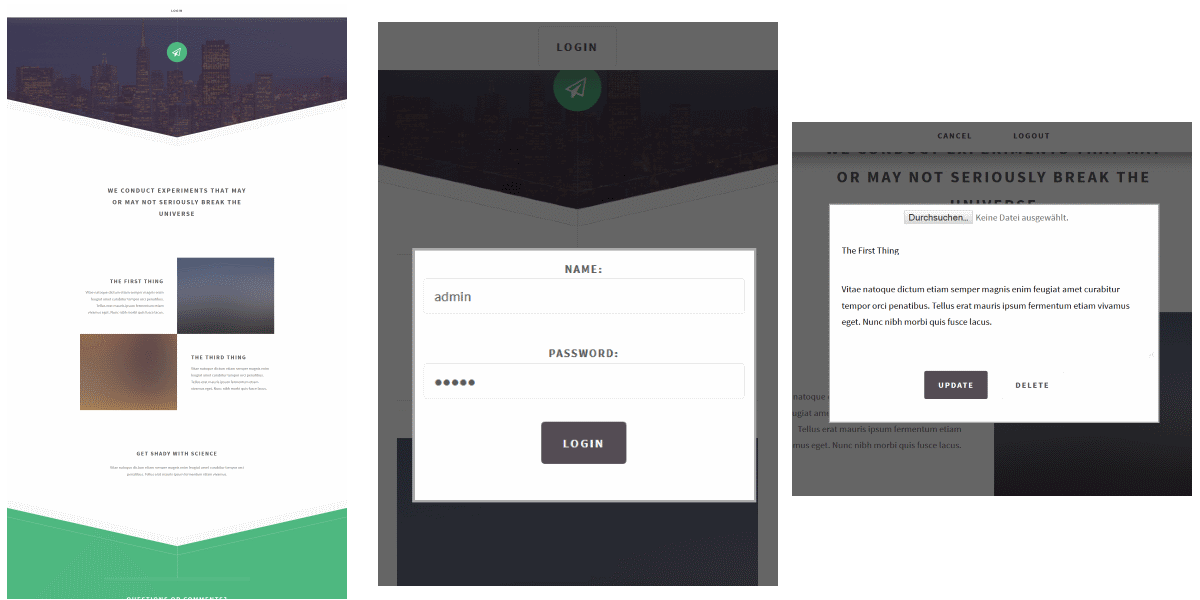
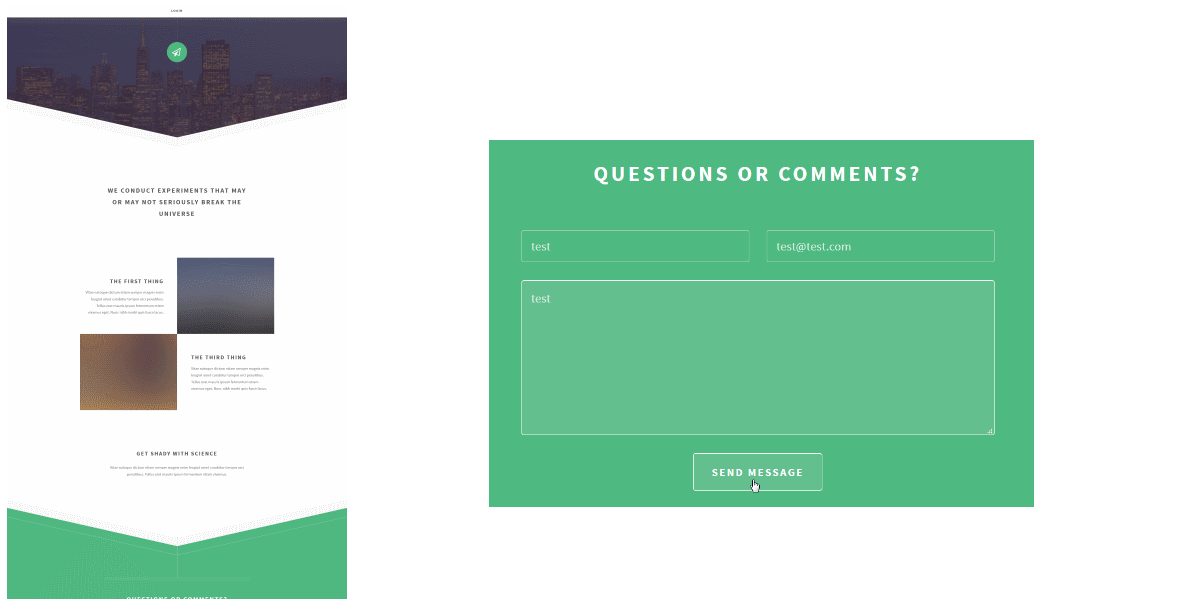
Improved contact controller sample

diff --git a/src/main/java/to/adapt/neba/impl/contact/ContactController.java b/src/main/java/to/adapt/neba/impl/contact/ContactController.java
@@ -30,10 +30,12 @@ public class ContactController {
 
     @RequestMapping(method = POST)
     public String add(@Valid Contact contact, BindingResult result) {
-        if (!result.hasErrors()) {
-            jobManager.addJob("neba-sample/contact/request", contact.toMap());
+        if (result.hasErrors()) {
+            return "neba-sample/components/contact/form";
         }
-        return formView();
+
+        jobManager.addJob("neba-sample/contact/request", contact.toMap());
+        return "neba-sample/components/contact/success";
     }
 
     public @ModelAttribute Contact contact() {

diff --git a/README.md b/README.md
@@ -1,8 +1,7 @@
 # NEBA Directive: a sample application for the NEBA framework for Apache Sling
 This project demonstrates core concepts and features of the NEBA framework for Sling. 
-It provides a demonstrative mini-CMS application for the beautiful responsive _directive_ template set by [http://html5up.net](http://html5up.net). 
-The application was created as part of a presentation of the 2015 .adaptTo conference in Berlin, Germany and
-is continuously updated to serve as a sample project for NEBA.
+It provides a demonstrative mini WEB application for the beautiful responsive _directive_ template set by [http://html5up.net](http://html5up.net). 
+The application was created as part of a presentation of the 2015 .adaptTo conference in Berlin, Germany and is continuously updated to serve as a sample project for NEBA.
 
 ![NEBA Directive: A sample application for NEBA for Sling](README/intro.png)
 
@@ -10,7 +9,7 @@ is continuously updated to serve as a sample project for NEBA.
 This application demonstrates how NEBA can be used to model resources in Sling and use Spring's MVC features for Apache Sling.
 
 ## What this sample application is _not_ 
-A ready-to-use CMS / web application. It has purely been designed to demonstrate NEBA features.
+A ready-to-use web application. It has purely been designed to demonstrate NEBA features.
  
 ## How to run this application
 1. If you don't have a Sling instance to experiment with, download the Sling 8 Standalone Application from the [official download page](https://sling.apache.org/downloads.cgi). Then, run the standalone jar using JDK 8 - this will install and start sling, e.g. with debugging on port 30303 using 
